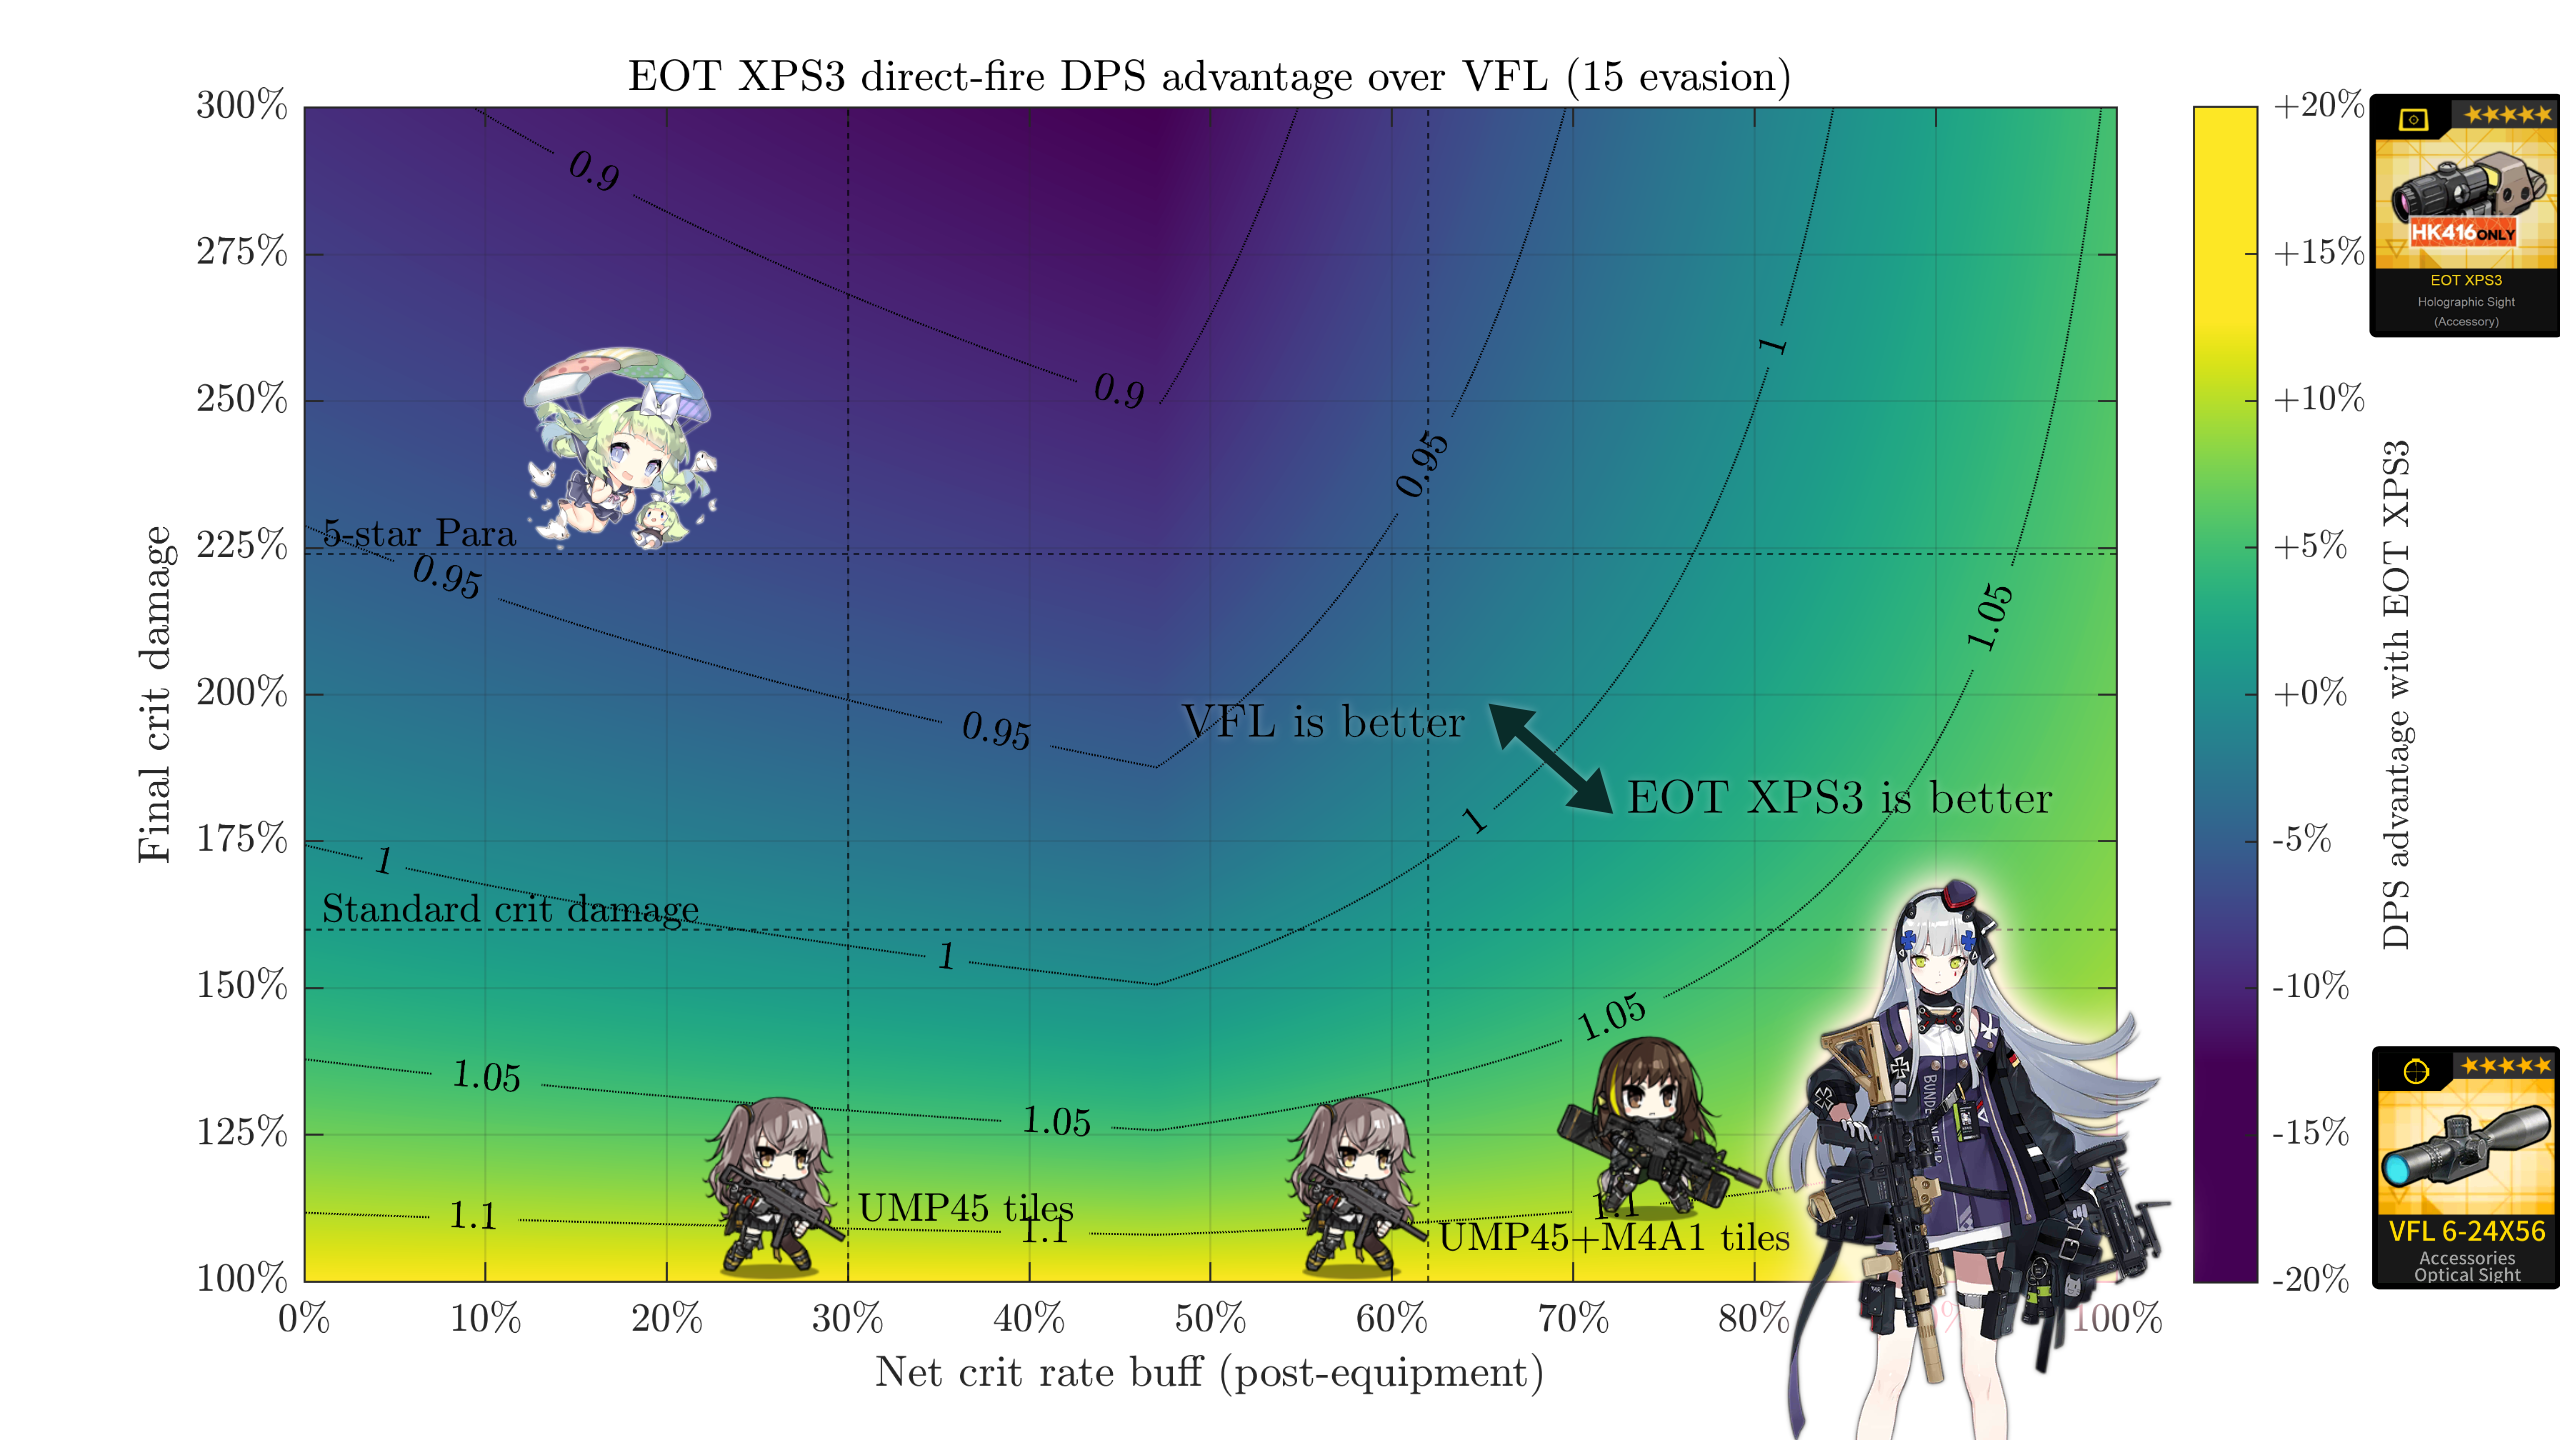
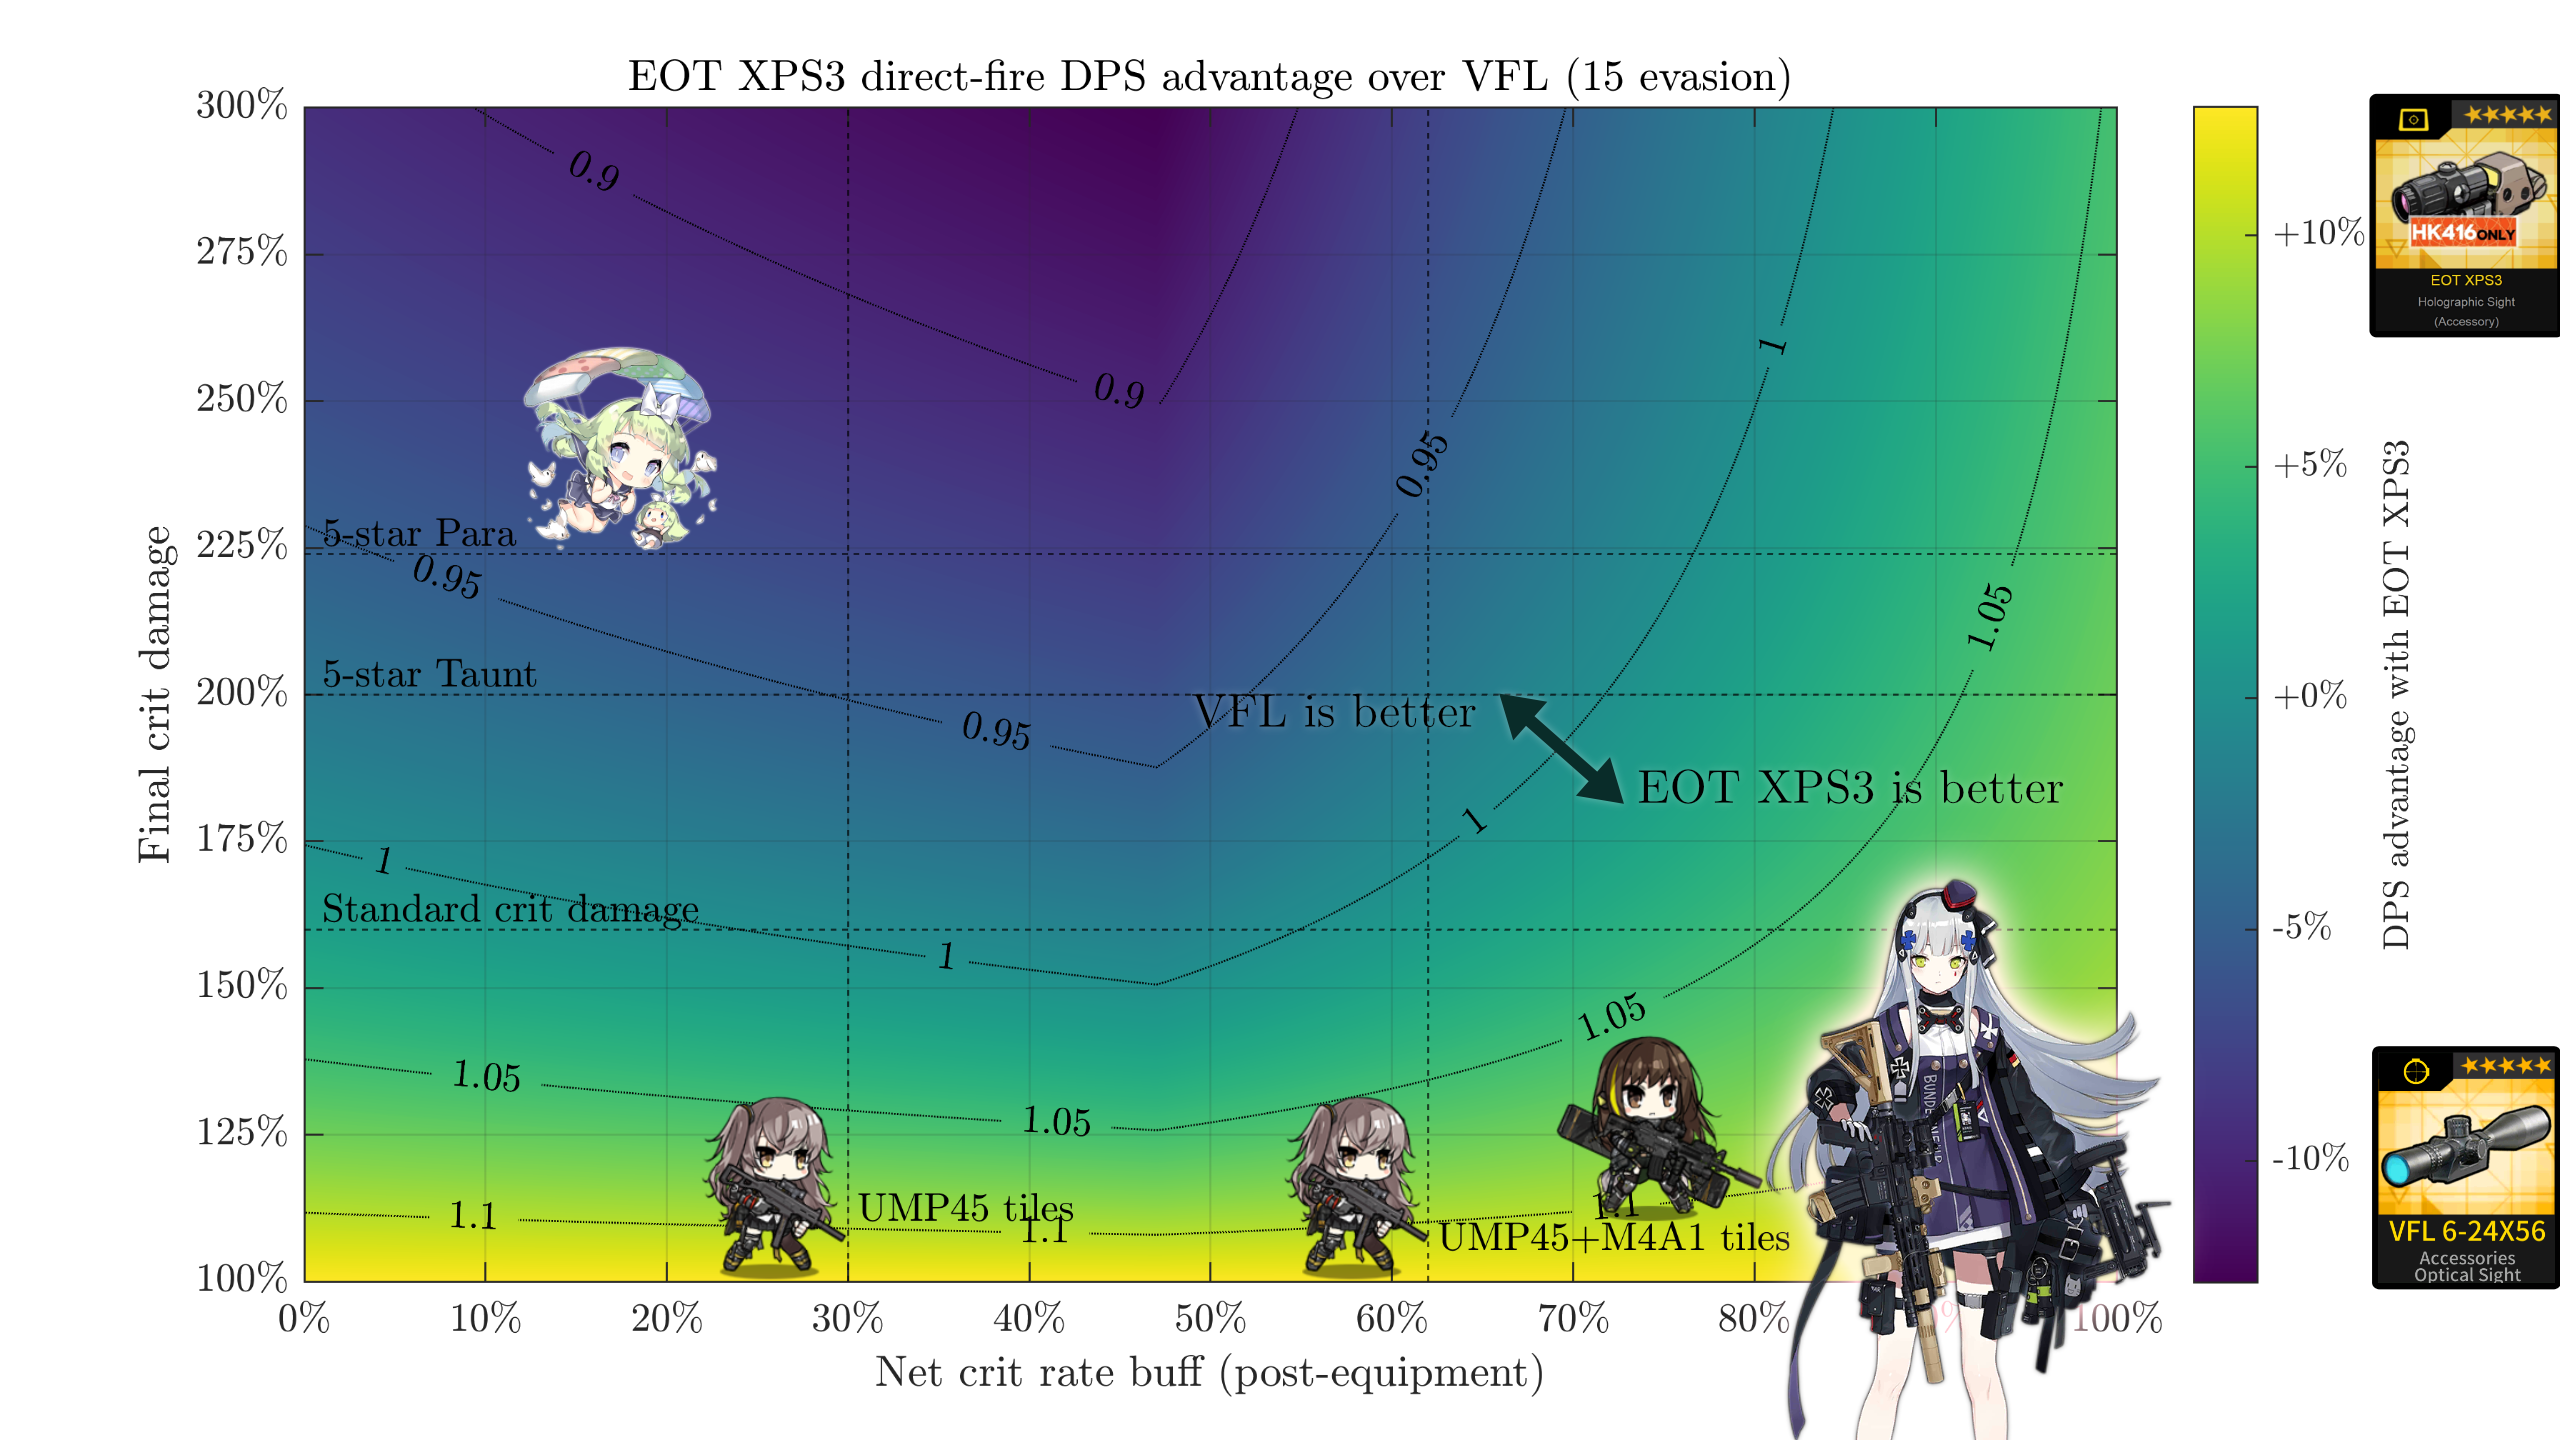
eot-xps3: added debuff chart

diff --git a/pages/eot-xps3.html b/pages/eot-xps3.html
@@ -40,7 +40,7 @@ gtag('config', 'G-805N997DPC');
 	<h1>EOT XPS3 Analysis</h1>
 </header>
 
-<center><em>By BigStupidJellyfish | 2021-September-03 | Updated 2021-December-15</em></center>
+<center><em>By BigStupidJellyfish | 2021-September-03 | Updated 2022-February-20</em></center>
 
 <p>Farmable in the <a href="campaign-rewards#singu">permanent Singularity campaign</a>, 416 has a holographic sight SPEQ that offers +8 FP, +14 ACC, and +25% crit rate at max calibration/enhancement.
 It trades the ROF penalty of a typical EOT for some of the crit rate VFLs give.
@@ -96,6 +96,16 @@ This advantage will be reduced if you have other accuracy buffs/tiles, so in man
 	For the pre-rework charts, see <a href="images/eot-xps3/dpschart15.png">vs 15 evasion</a> and <a href="images/eot-xps3/dpschart50.png">vs 50 evasion</a>.)
 </p>
 
+<p>
+	Bonus: with Para debuff, things shift around a bit:
+</p>
+<div class="figure">
+	<img src="images/eot-xps3/dpschart15-rework-para.png" width="100%"/>
+</div>
+<p>
+	With 30% or less crit tiles, 416 prefers her SPEQ for gun DPS.
+	Note that the enhanced grenade damage makes it even more appealing here, as the FP debuff means one-shotting is nowhere near as guaranteed.
+</p>
 <span class="anchor" id="grenade"></span>
 <h2>Grenade damage<sup><small><a href="#grenade">&#35;</a></small></sup></h2>
 
